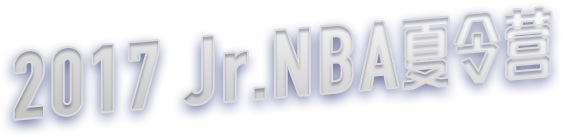
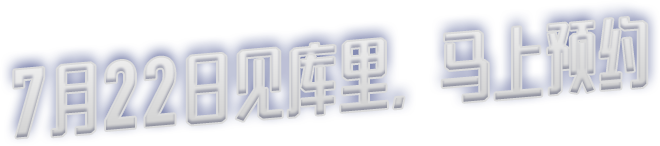
[+] index page

Changed region(s): [[0.0, 0.0584, 0.9964, 0.9635]]

diff --git a/src/views/IndexPage/index.js b/src/views/IndexPage/index.js
@@ -13,19 +13,33 @@ class IndexPage extends Component {
         <Logo />
         <Title />
         <SubTitle />
-        <dl>
-          <dt>活动时间</dt>
-          <dd>2017年7月22日（星期六）14:00</dd>
-          <dt>活动地点</dt>
-          <dd>
-            北京工业大学体育馆<br />（北京市朝阳区平乐园100号北工大院内）
-          </dd>
-        </dl>
+        <ul>
+          <li>
+            <span className="icon-basketball" />
+            2017 Jr. NBA夏令营-库里训练日
+          </li>
+          <li>
+            <span className="icon-calendar" />
+            2017年7月22日（星期六）14:00
+          </li>
+          <li>
+            <span className="icon-location" />
+            北京工业大学体育馆（北京市朝阳区平乐园100号北工大院内）
+          </li>
+          <li>
+            <span className="icon-warning" />
+            本次活动一人一票,凭票入场
+          </li>
+        </ul>
         <div className="entry">
           <Button text={'前往预约'} OnClick={() => this.handleClick()}>
             前往预约
           </Button>
-          <p>想见库里吗？点击预约，马上抢票吧</p>
+          <div className="total">
+            目前已<span>1</span>
+            <span>1</span>
+            <span>1</span>人报名
+          </div>
         </div>
       </div>
     )

diff --git a/src/configs/dev.js b/src/configs/dev.js
@@ -9,23 +9,33 @@ const configs = {
     'btn-txt-about.png',
     'btn-txt-confirm-submit.png',
     'btn-txt-confirm.png',
-    'btn-txt-failure.png',
     'btn-txt-go.png',
     'btn-txt-submit.png',
+    'flag-failure.png',
+    'flag-success.png',
+    'icon-basketball.png',
+    'icon-calendar.png',
     'icon-close.png',
+    'icon-location.png',
     'icon-man.png',
     'icon-nba.png',
     'icon-pencil.png',
     'icon-plus.png',
     'icon-triangle.png',
+    'icon-warning.png',
     'logo.png',
     'qrcode.jpg',
+    'subtitle-2.png',
     'subtitle.png',
+    'text-additional.png',
     'text-congrat.png',
+    'text-failure.png',
     'text-player-1.png',
     'text-player-2.png',
     'text-player-main.png',
+    'text-schedule.png',
     'text-success.png',
+    'title-2.png',
     'title-about.png',
     'title.png',
   ],

diff --git a/src/configs/prod.js b/src/configs/prod.js
@@ -9,23 +9,33 @@ const configs = {
     'btn-txt-about.png',
     'btn-txt-confirm-submit.png',
     'btn-txt-confirm.png',
-    'btn-txt-failure.png',
     'btn-txt-go.png',
     'btn-txt-submit.png',
+    'flag-failure.png',
+    'flag-success.png',
+    'icon-basketball.png',
+    'icon-calendar.png',
     'icon-close.png',
+    'icon-location.png',
     'icon-man.png',
     'icon-nba.png',
     'icon-pencil.png',
     'icon-plus.png',
     'icon-triangle.png',
+    'icon-warning.png',
     'logo.png',
     'qrcode.jpg',
+    'subtitle-2.png',
     'subtitle.png',
+    'text-additional.png',
     'text-congrat.png',
+    'text-failure.png',
     'text-player-1.png',
     'text-player-2.png',
     'text-player-main.png',
+    'text-schedule.png',
     'text-success.png',
+    'title-2.png',
     'title-about.png',
     'title.png',
   ],
